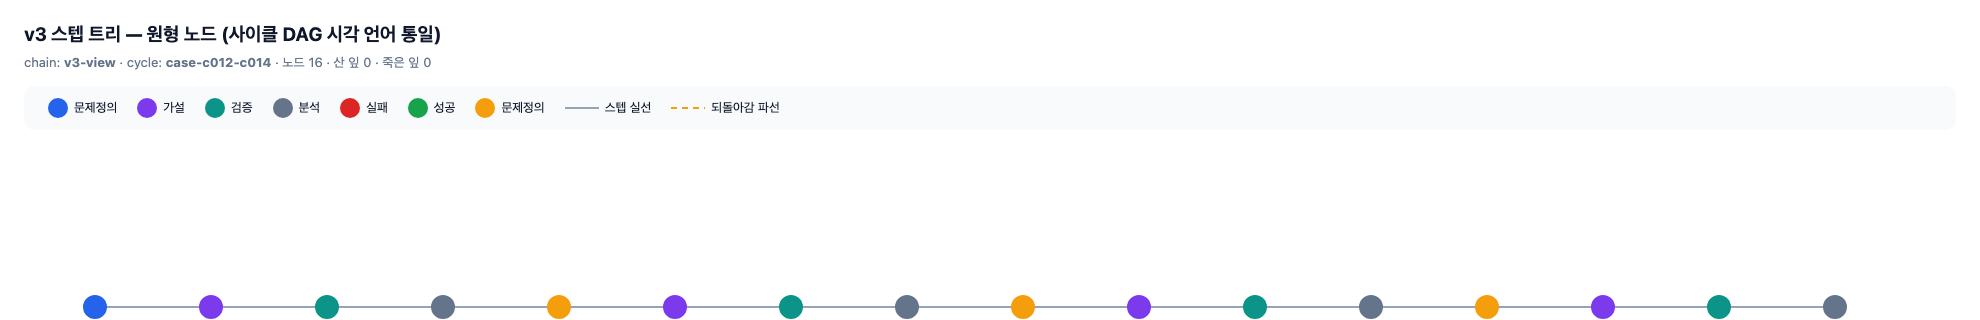
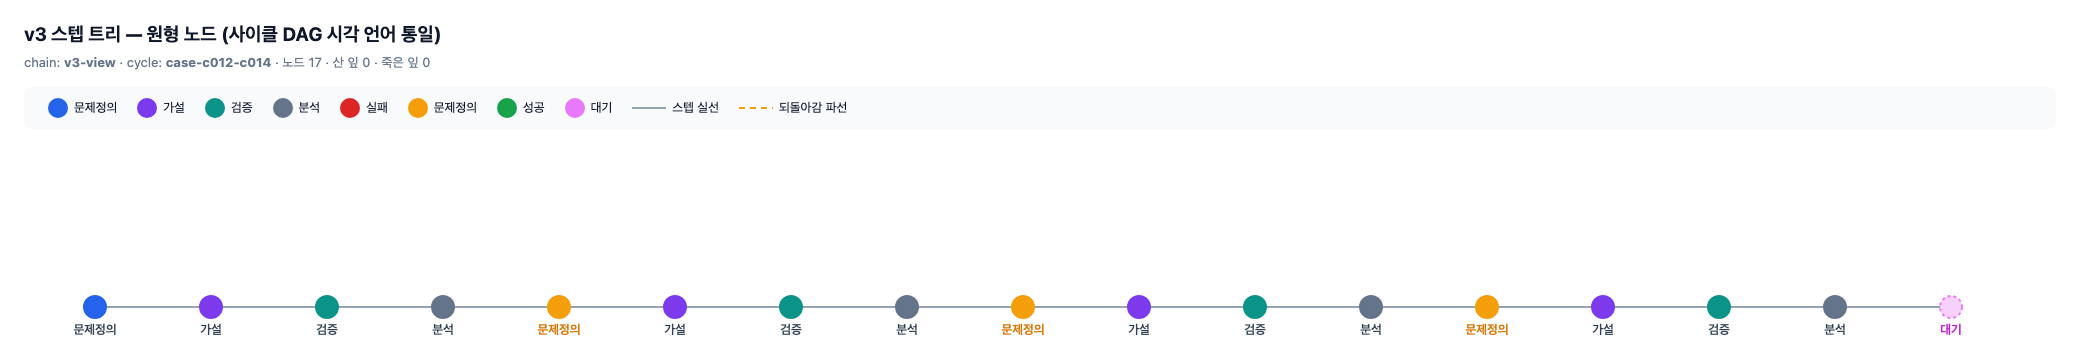
clew: 네 번째 결과 노드 pending(대기) 추가 — human-in-the-loop을 데이터로
상현님: 실패/문제정의/성공에 '사람에게 묻는 중' 노드 추가. pending=분홍 파선
테두리+흐린 채움, 아직 미결정(잎도 분기도 아님). 사람이 답하면 셋 중 하나로.
지금 트리 s17=pending(상현님께 작은원 묻는 중). LLM 워크플로의 본질을 노드로.

Changed region(s): [[0.0308, 0.875, 0.9551, 1.0], [0.0, 0.2812, 0.4313, 0.375], [0.0, 0.0625, 0.2465, 0.2188]]

diff --git a/rooms/experiment/chains/v3-view/C001-circular-step-tree-unified-language/3-verification/design-steptree/out.html b/rooms/experiment/chains/v3-view/C001-circular-step-tree-unified-language/3-verification/design-steptree/out.html
@@ -21,4 +21,7 @@ body{margin:0;font:14px/1.5 -apple-system,BlinkMacSystemFont,"Segoe UI",sans-ser
 .result-fail .n-name{fill:#dc2626}
 .result-success .n-name{fill:#16a34a}
 .result-redefine .n-name{fill:#d97706}
-</style><div class="head"><h1>v3 스텝 트리 — 원형 노드 (사이클 DAG 시각 언어 통일)</h1><div class="meta">chain: <b>v3-view</b> · cycle: <b>case-c012-c014</b> · 노드 16 · 산 잎 0 · 죽은 잎 0</div></div><div class="legend"><span class="lg"><span class="sw" style="background:#2563eb;border-color:#2563eb"></span>문제정의</span><span class="lg"><span class="sw" style="background:#7c3aed;border-color:#7c3aed"></span>가설</span><span class="lg"><span class="sw" style="background:#0d9488;border-color:#0d9488"></span>검증</span><span class="lg"><span class="sw" style="background:#64748b;border-color:#64748b"></span>분석</span><span class="lg"><span class="sw" style="background:#dc2626;border-color:#dc2626"></span>실패</span><span class="lg"><span class="sw" style="background:#16a34a;border-color:#16a34a"></span>성공</span><span class="lg"><span class="sw" style="background:#f59e0b;border-color:#f59e0b"></span>문제정의</span><span class="lg"><svg width="34" height="10"><line x1="0" y1="5" x2="34" y2="5" stroke="#94a3b8" stroke-width="2"/></svg>스텝 실선</span><span class="lg"><svg width="34" height="10"><line x1="0" y1="5" x2="34" y2="5" stroke="#f59e0b" stroke-width="2" stroke-dasharray="6 5"/></svg>되돌아감 파선</span></div><div class="wrap"><svg width="1942" height="212" viewBox="0 0 1942 212" xmlns="http://www.w3.org/2000/svg"><defs><marker id="bt-arrow" viewBox="0 0 10 10" refX="8" refY="5" markerWidth="7" markerHeight="7" orient="auto-start-reverse"><path d="M0 0 L10 5 L0 10 z" fill="#f59e0b"/></marker></defs><path class="edge-parent" d="M 82 161 C 129 161, 129 161, 176 161" data-from="s1" data-to="s2" /><path class="edge-parent" d="M 198 161 C 245 161, 245 161, 292 161" data-from="s2" data-to="s3" /><path class="edge-parent" d="M 314 161 C 361 161, 361 161, 408 161" data-from="s3" data-to="s4" /><path class="edge-parent" d="M 430 161 C 477 161, 477 161, 524 161" data-from="s4" data-to="s5" /><path class="edge-parent" d="M 546 161 C 593 161, 593 161, 640 161" data-from="s5" data-to="s6" /><path class="edge-parent" d="M 662 161 C 709 161, 709 161, 756 161" data-from="s6" data-to="s7" /><path class="edge-parent" d="M 778 161 C 825 161, 825 161, 872 161" data-from="s7" data-to="s8" /><path class="edge-parent" d="M 894 161 C 941 161, 941 161, 988 161" data-from="s8" data-to="s9" /><path class="edge-parent" d="M 1010 161 C 1057 161, 1057 161, 1104 161" data-from="s9" data-to="s10" /><path class="edge-parent" d="M 1126 161 C 1173 161, 1173 161, 1220 161" data-from="s10" data-to="s11" /><path class="edge-parent" d="M 1242 161 C 1289 161, 1289 161, 1336 161" data-from="s11" data-to="s12" /><path class="edge-parent" d="M 1358 161 C 1405 161, 1405 161, 1452 161" data-from="s12" data-to="s13" /><path class="edge-parent" d="M 1474 161 C 1521 161, 1521 161, 1568 161" data-from="s13" data-to="s14" /><path class="edge-parent" d="M 1590 161 C 1637 161, 1637 161, 1684 161" data-from="s14" data-to="s15" /><path class="edge-parent" d="M 1706 161 C 1753 161, 1753 161, 1800 161" data-from="s15" data-to="s16" /><g class="node kind-define" data-id="s1" data-kind="define" data-outcome=""><circle class="n-circle" cx="71" cy="161" r="11" fill="#2563eb" stroke="#2563eb" /><text class="n-name" x="71" y="188" text-anchor="middle">문제정의</text><text class="n-sub" x="71" y="203" text-anchor="middle">s1</text></g><g class="node kind-hypothesis" data-id="s2" data-kind="hypothesis" data-outcome=""><circle class="n-circle" cx="187" cy="161" r="11" fill="#7c3aed" stroke="#7c3aed" /><text class="n-name" x="187" y="188" text-anchor="middle">가설</text><text class="n-sub" x="187" y="203" text-anchor="middle">s2</text></g><g class="node kind-verify" data-id="s3" data-kind="verify" data-outcome=""><circle class="n-circle" cx="303" cy="161" r="11" fill="#0d9488" stroke="#0d9488" /><text class="n-name" x="303" y="188" text-anchor="middle">검증</text><text class="n-sub" x="303" y="203" text-anchor="middle">s3</text></g><g class="node kind-analyze" data-id="s4" data-kind="analyze" data-outcome=""><circle class="n-circle" cx="419" cy="161" r="11" fill="#64748b" stroke="#64748b" /><text class="n-name" x="419" y="188" text-anchor="middle">분석</text><text class="n-sub" x="419" y="203" text-anchor="middle">s4</text></g><g class="node kind-redefine result-redefine" data-id="s5" data-kind="redefine" data-outcome="redefine"><circle class="n-circle" cx="535" cy="161" r="11" fill="#f59e0b" stroke="#f59e0b" /><text class="n-name" x="535" y="188" text-anchor="middle">문제정의</text><text class="n-sub" x="535" y="203" text-anchor="middle">s5</text></g><g class="node kind-hypothesis" data-id="s6" data-kind="hypothesis" data-outcome=""><circle class="n-circle" cx="651" cy="161" r="11" fill="#7c3aed" stroke="#7c3aed" /><text class="n-name" x="651" y="188" text-anchor="middle">가설</text><text class="n-sub" x="651" y="203" text-anchor="middle">s6</text></g><g class="node kind-verify" data-id="s7" data-kind="verify" data-outcome=""><circle class="n-circle" cx="767" cy="161" r="11" fill="#0d9488" stroke="#0d9488" /><text class="n-name" x="767" y="188" text-anchor="middle">검증</text><text class="n-sub" x="767" y="203" text-anchor="middle">s7</text></g><g class="node kind-analyze" data-id="s8" data-kind="analyze" data-outcome=""><circle class="n-circle" cx="883" cy="161" r="11" fill="#64748b" stroke="#64748b" /><text class="n-name" x="883" y="188" text-anchor="middle">분석</text><text class="n-sub" x="883" y="203" text-anchor="middle">s8</text></g><g class="node kind-redefine result-redefine" data-id="s9" data-kind="redefine" data-outcome="redefine"><circle class="n-circle" cx="999" cy="161" r="11" fill="#f59e0b" stroke="#f59e0b" /><text class="n-name" x="999" y="188" text-anchor="middle">문제정의</text><text class="n-sub" x="999" y="203" text-anchor="middle">s9</text></g><g class="node kind-hypothesis" data-id="s10" data-kind="hypothesis" data-outcome=""><circle class="n-circle" cx="1115" cy="161" r="11" fill="#7c3aed" stroke="#7c3aed" /><text class="n-name" x="1115" y="188" text-anchor="middle">가설</text><text class="n-sub" x="1115" y="203" text-anchor="middle">s10</text></g><g class="node kind-verify" data-id="s11" data-kind="verify" data-outcome=""><circle class="n-circle" cx="1231" cy="161" r="11" fill="#0d9488" stroke="#0d9488" /><text class="n-name" x="1231" y="188" text-anchor="middle">검증</text><text class="n-sub" x="1231" y="203" text-anchor="middle">s11</text></g><g class="node kind-analyze" data-id="s12" data-kind="analyze" data-outcome=""><circle class="n-circle" cx="1347" cy="161" r="11" fill="#64748b" stroke="#64748b" /><text class="n-name" x="1347" y="188" text-anchor="middle">분석</text><text class="n-sub" x="1347" y="203" text-anchor="middle">s12</text></g><g class="node kind-redefine result-redefine" data-id="s13" data-kind="redefine" data-outcome="redefine"><circle class="n-circle" cx="1463" cy="161" r="11" fill="#f59e0b" stroke="#f59e0b" /><text class="n-name" x="1463" y="188" text-anchor="middle">문제정의</text><text class="n-sub" x="1463" y="203" text-anchor="middle">s13</text></g><g class="node kind-hypothesis" data-id="s14" data-kind="hypothesis" data-outcome=""><circle class="n-circle" cx="1579" cy="161" r="11" fill="#7c3aed" stroke="#7c3aed" /><text class="n-name" x="1579" y="188" text-anchor="middle">가설</text><text class="n-sub" x="1579" y="203" text-anchor="middle">s14</text></g><g class="node kind-verify" data-id="s15" data-kind="verify" data-outcome=""><circle class="n-circle" cx="1695" cy="161" r="11" fill="#0d9488" stroke="#0d9488" /><text class="n-name" x="1695" y="188" text-anchor="middle">검증</text><text class="n-sub" x="1695" y="203" text-anchor="middle">s15</text></g><g class="node kind-analyze" data-id="s16" data-kind="analyze" data-outcome=""><circle class="n-circle" cx="1811" cy="161" r="11" fill="#64748b" stroke="#64748b" /><text class="n-name" x="1811" y="188" text-anchor="middle">분석</text><text class="n-sub" x="1811" y="203" text-anchor="middle">s16</text></g></svg></div><div class="head"><div class="meta">v3-view/C001 목업 · Clew · 자기완결</div></div>
+/* 대기 — 아직 미결정. 채움 흐리게 + 파선 테두리로 "기다리는 중" 표시. */
+.result-pending .n-circle{fill-opacity:.35;stroke-dasharray:3 3}
+.result-pending .n-name{fill:#c026d3;font-weight:700}
+</style><div class="head"><h1>v3 스텝 트리 — 원형 노드 (사이클 DAG 시각 언어 통일)</h1><div class="meta">chain: <b>v3-view</b> · cycle: <b>case-c012-c014</b> · 노드 17 · 산 잎 0 · 죽은 잎 0</div></div><div class="legend"><span class="lg"><span class="sw" style="background:#2563eb;border-color:#2563eb"></span>문제정의</span><span class="lg"><span class="sw" style="background:#7c3aed;border-color:#7c3aed"></span>가설</span><span class="lg"><span class="sw" style="background:#0d9488;border-color:#0d9488"></span>검증</span><span class="lg"><span class="sw" style="background:#64748b;border-color:#64748b"></span>분석</span><span class="lg"><span class="sw" style="background:#dc2626;border-color:#dc2626"></span>실패</span><span class="lg"><span class="sw" style="background:#f59e0b;border-color:#f59e0b"></span>문제정의</span><span class="lg"><span class="sw" style="background:#16a34a;border-color:#16a34a"></span>성공</span><span class="lg"><span class="sw" style="background:#e879f9;border-color:#e879f9"></span>대기</span><span class="lg"><svg width="34" height="10"><line x1="0" y1="5" x2="34" y2="5" stroke="#94a3b8" stroke-width="2"/></svg>스텝 실선</span><span class="lg"><svg width="34" height="10"><line x1="0" y1="5" x2="34" y2="5" stroke="#f59e0b" stroke-width="2" stroke-dasharray="6 5"/></svg>되돌아감 파선</span></div><div class="wrap"><svg width="2058" height="212" viewBox="0 0 2058 212" xmlns="http://www.w3.org/2000/svg"><defs><marker id="bt-arrow" viewBox="0 0 10 10" refX="8" refY="5" markerWidth="7" markerHeight="7" orient="auto-start-reverse"><path d="M0 0 L10 5 L0 10 z" fill="#f59e0b"/></marker></defs><path class="edge-parent" d="M 82 161 C 129 161, 129 161, 176 161" data-from="s1" data-to="s2" /><path class="edge-parent" d="M 198 161 C 245 161, 245 161, 292 161" data-from="s2" data-to="s3" /><path class="edge-parent" d="M 314 161 C 361 161, 361 161, 408 161" data-from="s3" data-to="s4" /><path class="edge-parent" d="M 430 161 C 477 161, 477 161, 524 161" data-from="s4" data-to="s5" /><path class="edge-parent" d="M 546 161 C 593 161, 593 161, 640 161" data-from="s5" data-to="s6" /><path class="edge-parent" d="M 662 161 C 709 161, 709 161, 756 161" data-from="s6" data-to="s7" /><path class="edge-parent" d="M 778 161 C 825 161, 825 161, 872 161" data-from="s7" data-to="s8" /><path class="edge-parent" d="M 894 161 C 941 161, 941 161, 988 161" data-from="s8" data-to="s9" /><path class="edge-parent" d="M 1010 161 C 1057 161, 1057 161, 1104 161" data-from="s9" data-to="s10" /><path class="edge-parent" d="M 1126 161 C 1173 161, 1173 161, 1220 161" data-from="s10" data-to="s11" /><path class="edge-parent" d="M 1242 161 C 1289 161, 1289 161, 1336 161" data-from="s11" data-to="s12" /><path class="edge-parent" d="M 1358 161 C 1405 161, 1405 161, 1452 161" data-from="s12" data-to="s13" /><path class="edge-parent" d="M 1474 161 C 1521 161, 1521 161, 1568 161" data-from="s13" data-to="s14" /><path class="edge-parent" d="M 1590 161 C 1637 161, 1637 161, 1684 161" data-from="s14" data-to="s15" /><path class="edge-parent" d="M 1706 161 C 1753 161, 1753 161, 1800 161" data-from="s15" data-to="s16" /><path class="edge-parent" d="M 1822 161 C 1869 161, 1869 161, 1916 161" data-from="s16" data-to="s17" /><g class="node kind-define" data-id="s1" data-kind="define" data-outcome=""><circle class="n-circle" cx="71" cy="161" r="11" fill="#2563eb" stroke="#2563eb" /><text class="n-name" x="71" y="188" text-anchor="middle">문제정의</text><text class="n-sub" x="71" y="203" text-anchor="middle">s1</text></g><g class="node kind-hypothesis" data-id="s2" data-kind="hypothesis" data-outcome=""><circle class="n-circle" cx="187" cy="161" r="11" fill="#7c3aed" stroke="#7c3aed" /><text class="n-name" x="187" y="188" text-anchor="middle">가설</text><text class="n-sub" x="187" y="203" text-anchor="middle">s2</text></g><g class="node kind-verify" data-id="s3" data-kind="verify" data-outcome=""><circle class="n-circle" cx="303" cy="161" r="11" fill="#0d9488" stroke="#0d9488" /><text class="n-name" x="303" y="188" text-anchor="middle">검증</text><text class="n-sub" x="303" y="203" text-anchor="middle">s3</text></g><g class="node kind-analyze" data-id="s4" data-kind="analyze" data-outcome=""><circle class="n-circle" cx="419" cy="161" r="11" fill="#64748b" stroke="#64748b" /><text class="n-name" x="419" y="188" text-anchor="middle">분석</text><text class="n-sub" x="419" y="203" text-anchor="middle">s4</text></g><g class="node kind-redefine result-redefine" data-id="s5" data-kind="redefine" data-outcome="redefine"><circle class="n-circle" cx="535" cy="161" r="11" fill="#f59e0b" stroke="#f59e0b" /><text class="n-name" x="535" y="188" text-anchor="middle">문제정의</text><text class="n-sub" x="535" y="203" text-anchor="middle">s5</text></g><g class="node kind-hypothesis" data-id="s6" data-kind="hypothesis" data-outcome=""><circle class="n-circle" cx="651" cy="161" r="11" fill="#7c3aed" stroke="#7c3aed" /><text class="n-name" x="651" y="188" text-anchor="middle">가설</text><text class="n-sub" x="651" y="203" text-anchor="middle">s6</text></g><g class="node kind-verify" data-id="s7" data-kind="verify" data-outcome=""><circle class="n-circle" cx="767" cy="161" r="11" fill="#0d9488" stroke="#0d9488" /><text class="n-name" x="767" y="188" text-anchor="middle">검증</text><text class="n-sub" x="767" y="203" text-anchor="middle">s7</text></g><g class="node kind-analyze" data-id="s8" data-kind="analyze" data-outcome=""><circle class="n-circle" cx="883" cy="161" r="11" fill="#64748b" stroke="#64748b" /><text class="n-name" x="883" y="188" text-anchor="middle">분석</text><text class="n-sub" x="883" y="203" text-anchor="middle">s8</text></g><g class="node kind-redefine result-redefine" data-id="s9" data-kind="redefine" data-outcome="redefine"><circle class="n-circle" cx="999" cy="161" r="11" fill="#f59e0b" stroke="#f59e0b" /><text class="n-name" x="999" y="188" text-anchor="middle">문제정의</text><text class="n-sub" x="999" y="203" text-anchor="middle">s9</text></g><g class="node kind-hypothesis" data-id="s10" data-kind="hypothesis" data-outcome=""><circle class="n-circle" cx="1115" cy="161" r="11" fill="#7c3aed" stroke="#7c3aed" /><text class="n-name" x="1115" y="188" text-anchor="middle">가설</text><text class="n-sub" x="1115" y="203" text-anchor="middle">s10</text></g><g class="node kind-verify" data-id="s11" data-kind="verify" data-outcome=""><circle class="n-circle" cx="1231" cy="161" r="11" fill="#0d9488" stroke="#0d9488" /><text class="n-name" x="1231" y="188" text-anchor="middle">검증</text><text class="n-sub" x="1231" y="203" text-anchor="middle">s11</text></g><g class="node kind-analyze" data-id="s12" data-kind="analyze" data-outcome=""><circle class="n-circle" cx="1347" cy="161" r="11" fill="#64748b" stroke="#64748b" /><text class="n-name" x="1347" y="188" text-anchor="middle">분석</text><text class="n-sub" x="1347" y="203" text-anchor="middle">s12</text></g><g class="node kind-redefine result-redefine" data-id="s13" data-kind="redefine" data-outcome="redefine"><circle class="n-circle" cx="1463" cy="161" r="11" fill="#f59e0b" stroke="#f59e0b" /><text class="n-name" x="1463" y="188" text-anchor="middle">문제정의</text><text class="n-sub" x="1463" y="203" text-anchor="middle">s13</text></g><g class="node kind-hypothesis" data-id="s14" data-kind="hypothesis" data-outcome=""><circle class="n-circle" cx="1579" cy="161" r="11" fill="#7c3aed" stroke="#7c3aed" /><text class="n-name" x="1579" y="188" text-anchor="middle">가설</text><text class="n-sub" x="1579" y="203" text-anchor="middle">s14</text></g><g class="node kind-verify" data-id="s15" data-kind="verify" data-outcome=""><circle class="n-circle" cx="1695" cy="161" r="11" fill="#0d9488" stroke="#0d9488" /><text class="n-name" x="1695" y="188" text-anchor="middle">검증</text><text class="n-sub" x="1695" y="203" text-anchor="middle">s15</text></g><g class="node kind-analyze" data-id="s16" data-kind="analyze" data-outcome=""><circle class="n-circle" cx="1811" cy="161" r="11" fill="#64748b" stroke="#64748b" /><text class="n-name" x="1811" y="188" text-anchor="middle">분석</text><text class="n-sub" x="1811" y="203" text-anchor="middle">s16</text></g><g class="node kind-pending result-pending" data-id="s17" data-kind="pending" data-outcome="pending"><circle class="n-circle" cx="1927" cy="161" r="11" fill="#e879f9" stroke="#e879f9" /><text class="n-name" x="1927" y="188" text-anchor="middle">대기</text><text class="n-sub" x="1927" y="203" text-anchor="middle">s17</text></g></svg></div><div class="head"><div class="meta">v3-view/C001 목업 · Clew · 자기완결</div></div>

diff --git a/rooms/experiment/chains/v3-view/C001-circular-step-tree-unified-language/3-verification/circletree.py b/rooms/experiment/chains/v3-view/C001-circular-step-tree-unified-language/3-verification/circletree.py
@@ -26,15 +26,17 @@ KIND_COLOR = {
     "hypothesis": "#7c3aed",  # 보라 — 가설
     "verify": "#0d9488",      # 청록 — 검증
     "analyze": "#64748b",     # 회색 — 분석
-    # 결과 잎 (analyze 다음, 별도 노드) — 목업 샘플
-    "fail": "#dc2626",        # 빨강 — 실패
-    "success": "#16a34a",     # 초록 — 성공
-    "redefine": "#f59e0b",    # 주황 — 문제정의(되돌아가 새 가지)
+    # 분석 다음 결과 (별도 노드) — 네 종류
+    "fail": "#dc2626",        # 빨강 — 실패 (백트래킹)
+    "redefine": "#f59e0b",    # 주황 — 문제정의 (앞으로 새 가지)
+    "success": "#16a34a",     # 초록 — 성공 (산 잎, 끝)
+    "pending": "#e879f9",     # 분홍 — 대기 (사람에게 묻는 중, 아직 미결정)
 }
 KIND_LABEL = {"fail": "실패", "success": "성공", "redefine": "문제정의",
-              "define": "문제정의", "hypothesis": "가설", "verify": "검증",
-              "analyze": "분석"}
-RESULT_KINDS = {"fail", "success", "redefine"}
+              "pending": "대기", "define": "문제정의", "hypothesis": "가설",
+              "verify": "검증", "analyze": "분석"}
+# 분석 다음에 올 수 있는 네 결과. pending은 "아직 미결정"이라 잎도 분기도 아니다.
+RESULT_KINDS = {"fail", "success", "redefine", "pending"}
 
 
 def node_xy(nid, col, depth):
@@ -65,6 +67,9 @@ body{margin:0;font:14px/1.5 -apple-system,BlinkMacSystemFont,"Segoe UI",sans-ser
 .result-fail .n-name{fill:#dc2626}
 .result-success .n-name{fill:#16a34a}
 .result-redefine .n-name{fill:#d97706}
+/* 대기 — 아직 미결정. 채움 흐리게 + 파선 테두리로 "기다리는 중" 표시. */
+.result-pending .n-circle{fill-opacity:.35;stroke-dasharray:3 3}
+.result-pending .n-name{fill:#c026d3;font-weight:700}
 """
 
 
@@ -98,11 +103,14 @@ def render_html(nodes, chain="v3-view", cycle="case-c012-c014"):
         classes = ["node", f"kind-{kind}"]
         color = KIND_COLOR[kind]
         badge = ""
-        # 분석 다음 세 결과 노드 — 의미가 다르다:
+        # 분석 다음 네 결과 노드 — 의미가 다르다:
         #   success  = 산 잎 (끝).
         #   fail     = 죽은 잎 + 백트래킹 파선(조상 문제정의로 되돌아감).
         #   redefine = 잎 아님! 새 문제정의로서 앞으로 새 가지를 뻗는 분기점(자식을 낳음).
-        if kind == "success":
+        #   pending  = 사람에게 묻는 중. 아직 미결정 — 잎도 분기도 아니다(파선 테두리로 표시).
+        if kind == "pending":
+            classes.append("result-pending")  # 산/죽은 잎 어느 쪽도 아님
+        elif kind == "success":
             classes.append("result-success"); live.append(nid)
         elif kind == "fail":
             classes.append("result-fail"); dead.append(nid)
@@ -135,7 +143,8 @@ def render_html(nodes, chain="v3-view", cycle="case-c012-c014"):
             f'{badge}</g>')
 
     # 범례 — 스텝 종류 + 결과 잎 + 엣지
-    order = ["define", "hypothesis", "verify", "analyze", "fail", "success", "redefine"]
+    order = ["define", "hypothesis", "verify", "analyze",
+             "fail", "redefine", "success", "pending"]
     legend = "".join(
         f'<span class="lg"><span class="sw" style="background:{KIND_COLOR[k]};'
         f'border-color:{KIND_COLOR[k]}"></span>{KIND_LABEL[k]}</span>'

diff --git a/rooms/experiment/chains/v3-build/_viewer-design/README.md b/rooms/experiment/chains/v3-build/_viewer-design/README.md
@@ -118,11 +118,14 @@ R1 피드백(상현님):
 
 **상현님 문법 불변식 (완성형, 2026-07-21)**:
 1. *분석 다음엔 반드시 실패/문제정의/성공 중 하나가 나와야 한다 (없으면 안 닫힌 것).*
-2. **세 결과의 의미가 다르다**:
+2. **네 결과의 의미가 다르다** (상현님, pending 추가):
    - **실패(fail)** = 백트래킹과 연결 — 파선으로 조상 문제정의 복귀. 죽은 잎.
    - **문제정의(redefine)** = 잎이 **아니다**. **앞으로 새 가지를 뻗는 노드** (자식을 낳는
      분기점). 파선 없음.
    - **성공(success)** = 산 잎, 끝.
+   - **대기(pending)** = **사람에게 묻는 중.** 아직 미결정 — 잎도 분기도 아니다(분홍
+     파선 테두리+흐린 채움). 사람이 답하면 위 셋 중 하나로 바뀐다. **human-in-the-loop을
+     데이터 구조가 인정하는 노드** — LLM이 분석을 끝내고 사람 판정을 기다리는 순간을 담는다.
 
 → 우리 티키타카는 **되돌아간 적 없이, 매 분석마다 문제를 새로 정의하며 앞으로 나아가
 성공에 닿은 하나의 체인**이었다 (내가 "되돌아감"으로 오해한 게 사실은 "문제정의로 앞으로"):
@@ -132,12 +135,13 @@ R1 피드백(상현님):
 - **s5 문제정의**: 세로→"가로로 가자" (앞으로).
 - **s9 문제정의**: 가로 확인→"결과잎·작은원·이름으로 가자" (앞으로).
 - **s13 문제정의**: 시각 방향 확정→"원 더 작게, 귀엽게" (앞으로 — 성공이 아니었다!).
-- **s16 분석**: DAG 비율(r=9)에 맞춰 원 축소 캡쳐 → **결과 잎 아직 없음 = 진행 중**.
+- **s16 분석**: DAG 비율(r=9)에 맞춰 원 축소.
+- **s17 대기(pending)**: **지금 상현님께 "이 작은 원 좋은지" 묻는 중** — 명시적 노드로.
 
 **중요 — 성공은 상현님이 "됐다"고 할 때만 선다**: s13을 처음 성공으로 그렸으나, 상현님이
-"더 작게"로 정련을 이어가셨다 = 그건 성공이 아니라 **문제정의로 앞으로**였다. 지금 트리는
-산 잎 0·죽은 잎 0 = 진행 중(s16 분석 후 결과 잎 대기). 문법이 살아 움직인다:
-- 상현님 "이 작은 원 됐다" → s16 다음 **성공** 잎 → 닫힘.
+"더 작게"로 정련을 이어가셨다 = 그건 성공이 아니라 **문제정의로 앞으로**였다. 그리고
+"진행 중"을 암묵으로 두지 않고 **pending 노드로 명시**했다(s17). 문법이 살아 움직인다:
+- 상현님 "이 작은 원 됐다" → s17 pending이 **성공**으로 → 닫힘.
 - "더 정련" → **문제정의**로 앞으로.
 - "이 방향 틀렸다" → **실패**로 파선 백트래킹.
 